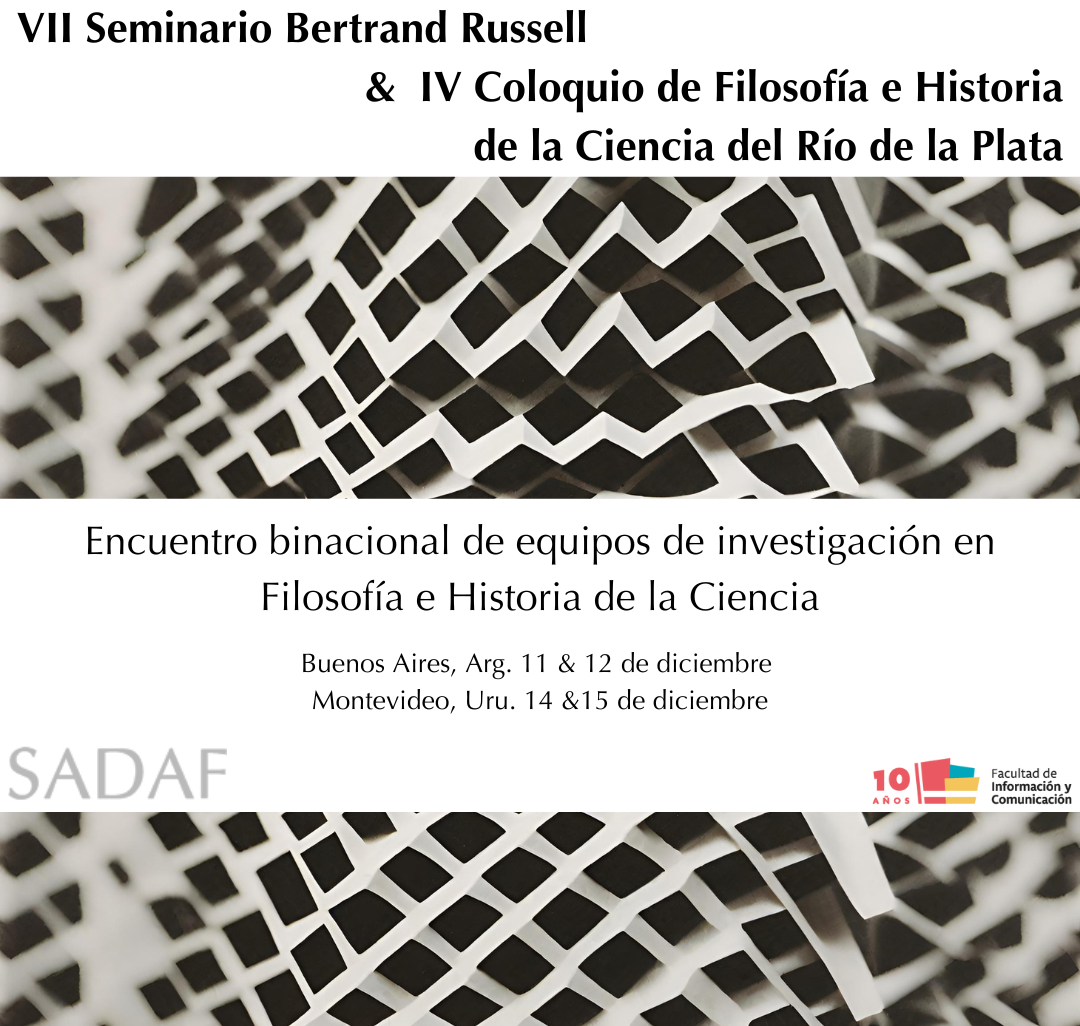
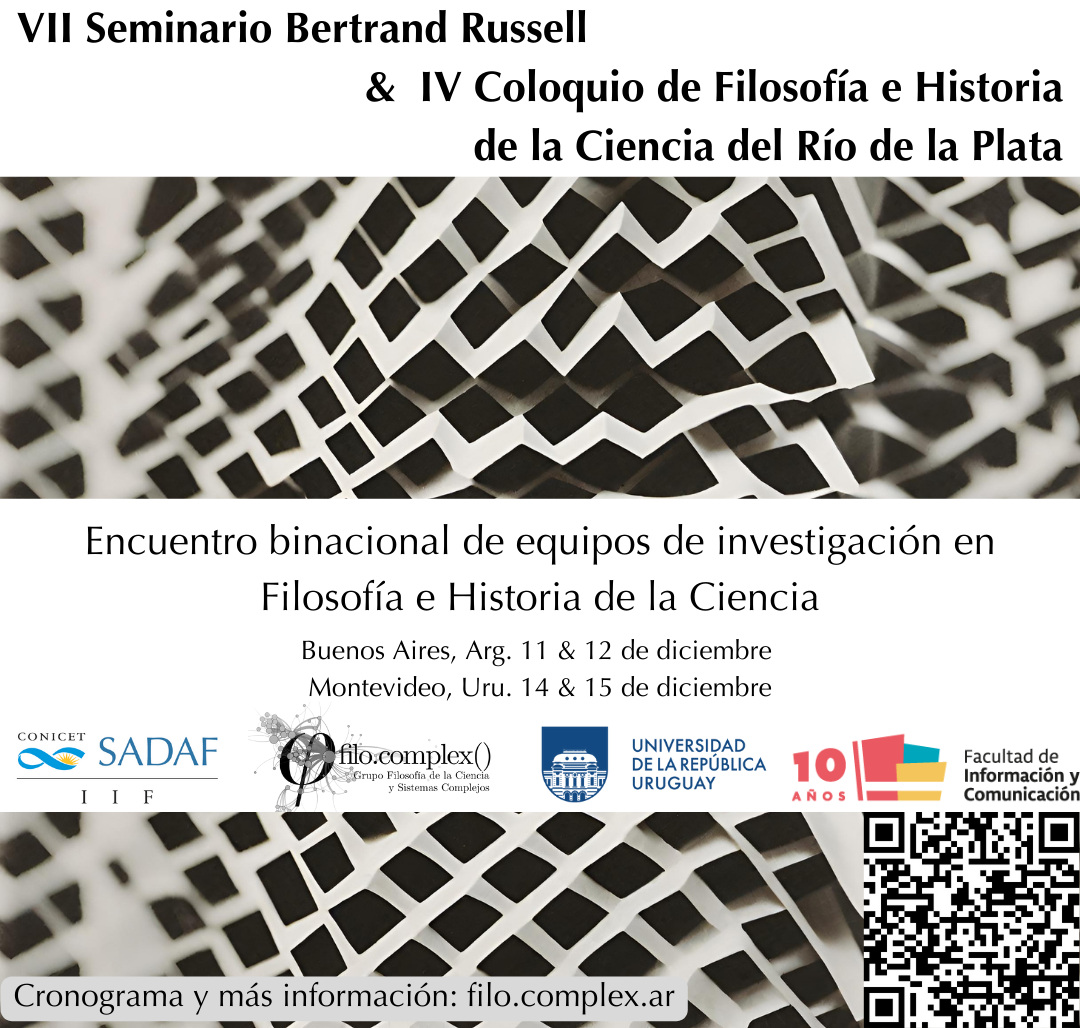
agrega coloquio

diff --git a/content/es/post/vii-russell-iv-coloquio/index.md b/content/es/post/vii-russell-iv-coloquio/index.md
@@ -2,103 +2,140 @@
 title: 'VII Seminario Bertrand Russell & V Coloquio de Filosofía e Historia de la Ciencia del Río de la Plata'
 
 date: '2023-11-05T00:00:00+01:00'
-
-draft: false
 ---
-
-VII Seminario Bertrand Russell
-IV Coloquio de Filosofía e Historia de la Ciencia del Río de la Plata
-
-Encuentro binacional de equipos de investigación en Filosofía e Historia de la
-Ciencia
-
-Buenos Aires, 11-12 de diciembre / Montevideo, 14-15 de diciembre.
 
 ![image](col_russell.png)
 
-### Lunes 11
+# Encuentro binacional de equipos de investigación en Filosofía e Historia de la Ciencia
 
-Sede Buenos Aires
-Sociedad Argentina de Análisis Filosófico
-Bulnes 642 CABA
+## Lunes 11
 
-9:30-10:00. Palabras de apertura.
-10:00 - 10:45. “Medidas de complejidad y cambio de teorías”
-Miguel Fuentes & Hernán Miguel (SADAF, Argentina - Universidad de Buenos
-Aires, Argentina)
-
-11:00 - 11:45. “Comunicación de la ciencia: ¿Por qué? ¿Para qué? ¿Para quiénes?”
-Jorge Rasner (Universidad de la República, Uruguay)
-
-12:00-12:45. “Explicaciones causales a partir de modelos. Modelo dinámico para
-decisiones políticas”
-Leandro Giri & Hernán Miguel (Universidad Tres de Febrero, Argentina -
-Universidad de Buenos Aires, Argentina)
-
-13:00-15:00. Almuerzo.
-
-15:00-15:45. “La broma infinita: una perspectiva no fundacionista para la ciencia de
-la información”
-Ignacio Saraiva (Universidad de la República, Uruguay)
-
-16:00-16:45. “IA y Sistemas Complejos: contextos históricos en su desarrollo”
-Andrés Ilcic & Miguel Fuentes (SADAF, Argentina)
+> Sede Buenos Aires
+> Sociedad Argentina de Análisis Filosófico
+> Bulnes 642 CABA
+>
+> 9:30-10:00. Palabras de apertura.
+>
+> 10:00 - 10:45. *Medidas de complejidad y cambio de teorías*
+>
+> **Miguel Fuentes & Hernán Miguel** (SADAF, Argentina - Universidad de
+> Buenos Aires, Argentina)
+>
+> 11:00 - 11:45. *La broma infinita: una perspectiva no fundacionista para la ciencia de la información*
+>
+> **Ignacio Saraiva** (Universidad de la República, Uruguay)
+>
+> 12:00-12:45. *Explicaciones causales a partir de modelos. Modelo > dinámico para decisiones políticas*
+>
+> **Leandro Giri & Hernán Miguel** (Universidad Tres de Febrero,
+> Argentina - Universidad de Buenos Aires, Argentina)
+>
+> 13:00-15:00. Almuerzo.
+>
+> 15:00-15:45. *IA y Sistemas Complejos: contextos históricos en su > desarrollo* 
+> **Andrés Ilcic & Miguel Fuentes** (SADAF, Argentina)
 
 ## Martes 12
 
-Sede Buenos Aires
-Sociedad Argentina de Análisis Filosófico
-Bulnes 642 CABA
-10:00 - 10:45. “Aplicación a la AI y las propiedades emergentes”
-Erick Rubio & Andrés Ilcic (Universidad del Atlántico, Colombia - SADAF,
-Argentina)
-11:00 - 11:45. “IA: otro desafío para la filosofía de la técnica”
-Agustín Courtoisie (Universidad de la República, Uruguay)13:00-15:00. Almuerzo
-Jueves 14
-Sede Montevideo
-Facultad de Información y Comunicación
-San Salvador 1944
-9:30-10:00. Palabras de apertura.
-10:00 - 10:45. “Conciencia, atención y percepción”
-Ignacio Cervieri (Universidad de la República, Uruguay)
-11:00 - 11:45. “Modelización y Teoría de Redes: difusión social del significado”
-Ada Czerwonogora & Miguel Fuentes (CLAEH, Uruguay - SADAF, Argentina)
-12:00 - 12:45. “Metafísica de la ciencia en el Río de la Plata”
-Bruno Borge (Universidad de Buenos Aires, Argentina)
-13:00 - 16:00. Almuerzo
-16:00 - 16:45. “El problema de la demarcación y su relación con la comunicación
-mediática”
-Alejandro Paiva (Universidad de la República, Uruguay)17:00 - 17:45. “Ciencia y tecnología entendidas como un sistema complejo.
-Comunicación pública de la ciencia y la tecnología, y los sujetos de la acción
-comunicativa”
-Marcelo Rodríguez y Leandro Giri
-Viernes 15
-Sede Montevideo
-Facultad de Información y Comunicación
-San Salvador 1944
-10:00 - 10:45. “Sistemas Complejos y Causación Internivel. Modelos de aprendizaje
-para IA”
-Hernán Miguel y Miguel Fuentes
-11:00 - 11:45. “Fusión de lenguajes: IA en la investigación social”
-Soledad Caballero (Universidad de la República, Uruguay)
-12:00 - 15:00. Almuerzo
-15:00 - 15:45. “Fundamentos de la Epistemocrítica: un encuentro entre Literatura y
-Ciencia”
-Mauricio Cheguhem (Universidad de la República, Uruguay)
-16:00 - 16:45. “La cultura visual de la medicina alternativa en el Uruguay del
-Novecientos”
-Analía Lavín (Universidad de Columbia, EEUU)17:00 - 17:45. “Presentación de la serie audiovisual accesible Epistemología
-Abierta”
-Victoria Lavorerio (Universidad de la República, Uruguay)
+> Sede Buenos Aires
+> Sociedad Argentina de Análisis Filosófico
+> Bulnes 642 CABA
+>
+> 10:00 - 10:45. "*Aplicación a la IA y las propiedades emergentes*"
+>
+> **Erick Rubio & Andrés Ilcic** (Universidad del Atlántico, Colombia -
+> SADAF, Argentina)
+>
+> 11:00 - 11:45. "*IA: otro desafío para la filosofía de la técnica*"
+>
+> **Agustín Courtoisie** (Universidad de la República, Uruguay)
+>
+> 12:00 - 12:45. "*Ciencia y tecnología entendidas como un sistema
+> complejo.* Comunicación pública de la ciencia y la tecnología, y los
+> sujetos de la acción comunicativa"
 
+**Marcelo Rodríguez & Leandro Giri**
 
-Coordinación: Hernán Miguel, Leandro Giri, Jorge Rasner y Mauricio Cheguhem.
+> 13:00-15:00. Almuerzo
+>
+> 15:00 - 15:45. "*Modelización y Teoría de Redes: difusión social del
+> significado*"
+>
+> **Ada Czerwonogora & Miguel Fuentes** (CLAEH, Uruguay - SADAF,
+> Argentina)
 
-Contacto: coloquiofhc@fic.edu.uy / mauricio.cheguem@fic.edu.uy
+## Jueves 14
 
-Organizan:
-Grupo de Estudios Sociales de la Ciencia y la Tecnología (GESCyT)
-Universidad de la República, Uruguay.
+> Sede Montevideo
 
-Sociedad Argentina de Análisis Filosófico (SADAF)
-Universidad de Buenos Aires, Argentina.
+### Facultad de Información y Comunicación
+
+> San Salvador 1944
+>
+> 9:30-10:00. Palabras de apertura.
+>
+> 10:00 - 10:45. "*Comunicación de la ciencia: ¿Por qué? ¿Para qué?
+> ¿Para quiénes?*"
+>
+> **Jorge Rasner** (Universidad de la República, Uruguay)
+>
+> 11:00 - 11:45. "*Sistemas Complejos y Causación Internivel. Modelos de
+> aprendizaje* para IA"
+>
+> **Hernán Miguel y Miguel Fuentes** (SADAF, Argentina)
+>
+> 12:00 - 12:45. "*Fusión de lenguajes: IA en la investigación social*"
+>
+> **Soledad Caballero** (Universidad de la República, Uruguay)
+>
+> 16:00 - 16:45. "*El problema de la demarcación y su relación con la
+> comunicación* mediática"
+>
+> **Alejandro Paiva** (Universidad de la República, Uruguay)
+>
+> 17:00 - 17:45. "*Metafísica de la ciencia en el Río de la Plata*"
+>
+> **Bruno Borge** (Universidad de Buenos Aires, Argentina)
+
+## Viernes 15
+
+> Sede Montevideo
+
+### Facultad de Información y Comunicación
+
+> San Salvador 1944
+>
+> 10:00 - 10:45. "*Conciencia, atención y percepción*"
+>
+> **Ignacio Cervieri** (Universidad de la República, Uruguay)
+>
+> 11:00 - 11:45. "*Fundamentos de la Epistemocrítica: un encuentro entre
+> Literatura y* Ciencia"
+>
+> **Mauricio Cheguhem** (Universidad de la República, Uruguay)
+>
+> 12:00 - 12:45. "*La cultura visual de la medicina alternativa en el
+> Uruguay del* Novecientos"
+>
+> **Analía Lavín** (Universidad de la República, Uruguay)
+>
+> 16:00 - 16:45. "*Presentación de la serie audiovisual accesible
+> Epistemología* Abierta"
+>
+> **Victoria Lavorerio** (Universidad de la República, Uruguay)
+>
+> **Coordinación**: Hernán Miguel, Leandro Giri y Mauricio Cheguhem.
+>
+> **Contacto:**
+> [[coloquiofhc@fic.edu.uy]{.underline}](mailto:coloquiofhc@fic.edu.uy)
+> /
+> [[mauricio.cheguem@fic.edu.uy]{.underline}](mailto:mauricio.cheguem@fic.edu.uy)
+
+# Organizan:
+
+> Grupo de Estudios Sociales de la Ciencia y la Tecnología (GESCyT)
+> Universidad de la República, Uruguay.
+
+> Grupo Filosofía de la Ciencia y Sistemas Complejos (filo.complex)
+> Sociedad Argentina de Análisis Filosófico (SADAF).
+
